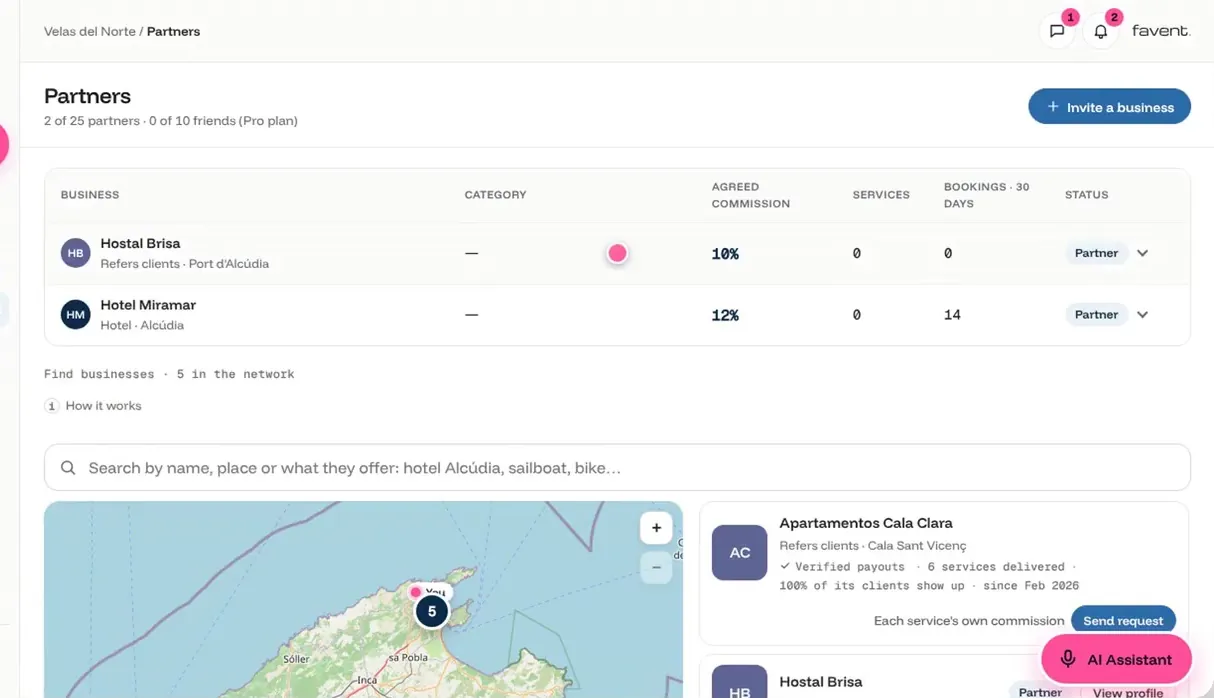
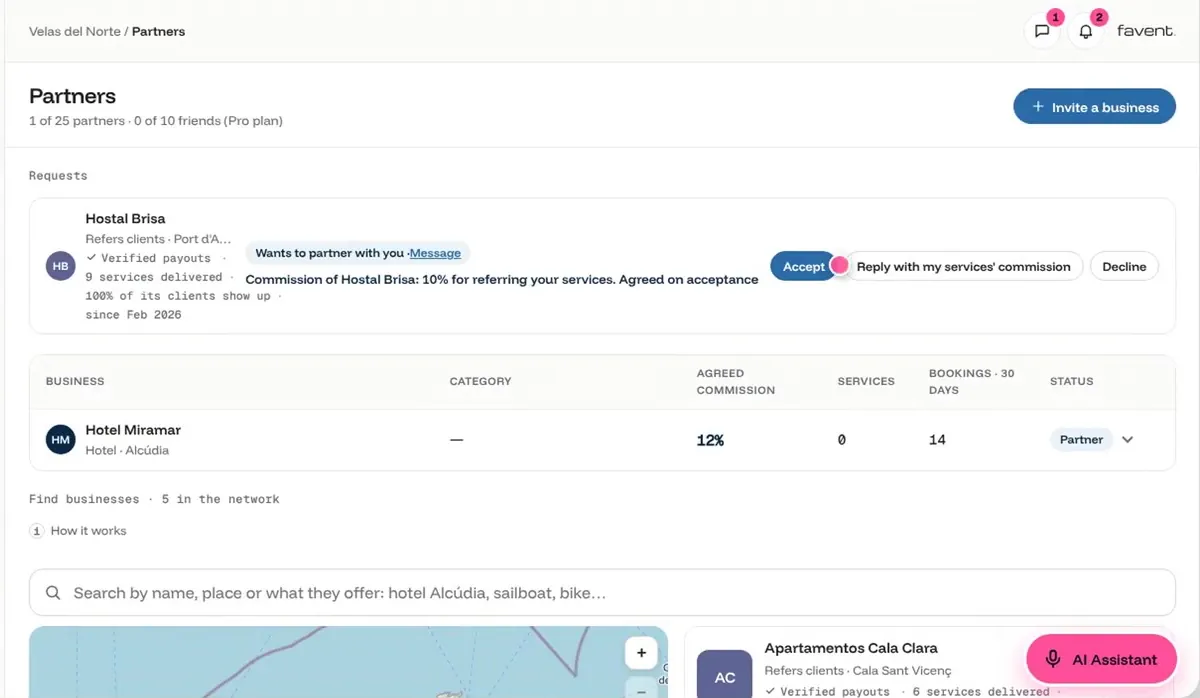
Web: pasos dibujados con título nuevo, ventajas con recortes reales e iPad, iPhone sin notch y bien colocado junto al ordenador

diff --git a/index.html b/index.html
@@ -1393,6 +1393,34 @@ html[lang="en"] .l-es,html:not([lang="en"]) .l-en{display:none !important}
   .stepdev .ip{width:120px}
 }
 @media (prefers-reduced-motion: reduce){.fs,.aps{transition:none}.aps-side{animation:none}}
+
+/* Segunda vuelta (19 nov 2026): recortes de la app, iPad y el iPhone del inicio apoyado junto al ordenador */
+.shot{margin:16px 0 0;border-radius:14px;overflow:hidden;background:#FFFFFF;box-shadow:0 0 0 1px rgba(255,255,255,.14),0 24px 50px rgba(0,0,0,.45)}
+.shot img{display:block;width:100%;height:auto}
+.pad{margin:16px auto 0;width:100%;max-width:470px;position:relative;background:#121722;padding:3.2%;border-radius:5% / 6.6%;box-shadow:0 0 0 1px #2F3747,inset 0 0 0 2px #05070B,0 30px 70px rgba(0,0,0,.5)}
+.pad::before{content:"";position:absolute;top:1.3%;left:50%;width:6px;height:6px;border-radius:50%;background:#05070B;transform:translateX(-50%)}
+.pad-scr{aspect-ratio:4/3;overflow:hidden;border-radius:2.2% / 2.9%;background:#FFFFFF}
+.pad-scr img{display:block;width:100%;height:100%;object-fit:cover;object-position:left top}
+.nw-feat:nth-child(3) .pad{margin:0 auto}
+/* El marco se mide por su propio ancho (el % de padding se medía por el del contenedor y engordaba el bisel) */
+.ip,.pad{container-type:inline-size;padding:0 !important}
+/* iPhone limpio: sin isla ni barra de estado dibujadas, la pantalla real a sangre y un bisel fino */
+.ip{border-radius:14% / 6.6%;background:#0E121A;box-shadow:0 0 0 1px #3A4253,inset 0 0 0 1px rgba(255,255,255,.06),0 30px 70px rgba(0,0,0,.5)}
+.ip::after{display:none}
+.ip-scr{margin:2.6cqw;aspect-ratio:415/900;border-radius:11.6cqw}
+.ip-bar{display:none}
+.ip-view{top:0}
+.ip{background:#1A2030;box-shadow:0 0 0 1px #4A5366,inset 0 0 0 1px rgba(255,255,255,.08),0 30px 60px rgba(0,0,0,.5)}
+.ip-hero{filter:none}
+.nw-feat:nth-child(3){align-content:stretch}
+.nw-feat:nth-child(3) h3{align-self:end}
+.nw-feat:nth-child(3) p.d{align-self:start}
+.pad-scr{margin:3cqw}
+.nw-feat:nth-child(3){grid-template-rows:auto auto;align-content:center}
+.ip-hero{right:1.5%;bottom:0;width:18.5%;filter:drop-shadow(0 24px 40px rgba(0,0,0,.55))}
+.mac-hero{filter:none}
+.mac-hero .mac-scr{box-shadow:inset 0 0 0 1px rgba(255,255,255,.04),0 40px 80px rgba(0,0,0,.45)}
+@media (max-width: 640px){.ip-hero{width:25%;right:1%;bottom:0}}
 </style>
 </head>
 <body>
@@ -1443,7 +1471,7 @@ html[lang="en"] .l-es,html:not([lang="en"]) .l-en{display:none !important}
     <p class="fx-sr">Animación de ejemplo del panel de Favent: un hotel crea una reserva, el cliente paga la señal, se canjea el código QR y se libera la comisión.</p>
     <div class="hero-dev">
       <figure class="mac mac-hero"><div class="mac-scr"><video id="hero-vid" muted loop playsinline preload="metadata" poster="img/app/tour-es.webp?v=1" aria-label="Vídeo de la app de Favent con datos de ejemplo: buscar servicios, la agenda, las reservas, Connect Spot y los mensajes"></video></div><div class="mac-base" aria-hidden="true"></div></figure>
-      <figure class="ip ip-hero"><div class="ip-scr"><div class="ip-bar" aria-hidden="true"><span>9:41</span></div><div class="ip-view"><img class="l-es" src="img/app/es/m2-mapa.webp?v=1" alt="El catálogo del hotel en el móvil del huésped, con el mapa" loading="lazy" decoding="async"><img class="l-en" src="img/app/en/m2-mapa.webp?v=1" alt="The hotel catalogue on the guest phone, with the map" loading="lazy" decoding="async"></div></div></figure>
+      <figure class="ip ip-hero"><div class="ip-scr"><div class="ip-bar" aria-hidden="true"><span>9:41</span></div><div class="ip-view"><img class="l-es" src="img/app/es/m1-catalogo.webp?v=1" alt="El catálogo del hotel en el móvil del huésped" loading="lazy" decoding="async"><img class="l-en" src="img/app/en/m1-catalogo.webp?v=1" alt="The hotel catalogue on the guest phone" loading="lazy" decoding="async"></div></div></figure>
     </div>
     <div id="panel-scale" hidden style="overflow: hidden; border-radius: 32px">
     <div id="demo" inert style="position: relative; background: #EAF2F8; border-radius: 32px; padding: clamp(16px, 4vw, 40px)">
@@ -1502,32 +1530,48 @@ html[lang="en"] .l-es,html:not([lang="en"]) .l-en{display:none !important}
   <section id="funciona" class="nw-in" aria-labelledby="h-funciona">
     <div class="nw-head">
       <span class="nw-eb">Cómo funciona</span>
-      <h2 id="h-funciona">Cuatro pasos, sin perseguir a nadie<span class="dot-p">.</span></h2>
+      <h2 id="h-funciona">Del acuerdo al cobro, en cuatro pasos<span class="dot-p">.</span></h2>
     </div>
     <ol class="nw-steps">
       <li>
         <span class="nw-n">01</span>
         <h3>Pactáis la comisión</h3>
         <p class="d">Las dos empresas acuerdan un porcentaje una vez. Vale para todas las reservas.</p>
-        <div class="stepdev"><figure class="mac"><div class="mac-scr"><img class="l-es" src="img/app/es/rec-colab.webp?v=1" alt="Colaboradores en la app de Favent: la solicitud de un hotel con su comisión" loading="lazy" decoding="async"><img class="l-en" src="img/app/en/rec-colab.webp?v=1" alt="Partners in the Favent app: a hotel request with its commission" loading="lazy" decoding="async"></div><div class="mac-base" aria-hidden="true"></div></figure></div>
+        <div class="mini" aria-hidden="true">
+          <div class="mh"><span>Solicitud de colaboración</span><span class="pl w">Nueva</span></div>
+          <div class="mr"><span>Hotel Miramar</span><small>quien recomienda</small></div>
+          <div class="mr"><span class="big">15 %</span><small>comisión</small></div>
+          <div class="bt"><span class="b">Aceptar</span><span class="b g">Responder</span></div>
+        </div>
       </li>
       <li>
         <span class="nw-n">02</span>
         <h3>El cliente paga la señal</h3>
         <p class="d">Reserva con un enlace o desde el QR del hotel y paga con tarjeta el 50 % o el 100 %.</p>
-        <div class="stepdev"><figure class="ip"><div class="ip-scr"><div class="ip-bar" aria-hidden="true"><span>9:41</span></div><div class="ip-view"><img class="l-es" src="img/app/es/m3-ficha.webp?v=1" alt="Ficha de un servicio en el móvil: lo que se paga ahora y lo que se paga en el lugar" loading="lazy" decoding="async"><img class="l-en" src="img/app/en/m3-ficha.webp?v=1" alt="A service page on the phone: what is paid now and what is paid on site" loading="lazy" decoding="async"></div></div></figure></div>
+        <div class="mini" aria-hidden="true">
+          <div class="mh"><span>Zafiro · Barco privado</span><span>sáb 10:00</span></div>
+          <div class="mr"><span>Pagas ahora</span><b class="mono">308,25 €</b></div>
+          <div class="mr"><span>Pagas en el lugar</span><span class="mono">300,00 €</span></div>
+          <div class="bt"><span class="b a">Pagar la señal</span></div>
+        </div>
       </li>
       <li>
         <span class="nw-n">03</span>
         <h3>Se canjea el QR</h3>
         <p class="d">Al llegar, quien presta el servicio escanea el código del cliente.</p>
-        <div class="stepdev"><figure class="ip"><div class="ip-scr"><div class="ip-bar" aria-hidden="true"><span>9:41</span></div><div class="ip-view"><img class="l-es" src="img/app/es/pro-escanear.webp?v=1" alt="Escanear QR en la app: la reserva del cliente, lista para canjear" loading="lazy" decoding="async"><img class="l-en" src="img/app/en/pro-escanear.webp?v=1" alt="Scan QR in the app: the client booking, ready to redeem" loading="lazy" decoding="async"></div></div></figure></div>
+        <div class="mini" aria-hidden="true">
+          <div class="mr" style="align-items:center"><span class="q" aria-hidden="true"><i></i><i></i><i></i><i></i><i class="o"></i><i></i><i></i><i></i><i></i><i></i><i class="o"></i><i></i><i></i><i></i><i></i><i class="o"></i><i></i><i></i><i></i><i></i><i></i><i class="o"></i><i></i><i></i><i class="o"></i><i class="o"></i><i class="o"></i><i></i><i class="o"></i><i></i><i class="o"></i><i></i><i></i><i></i><i></i><i></i><i></i><i class="o"></i><i></i><i class="o"></i><i class="o"></i><i></i><i></i><i></i><i class="o"></i><i></i><i></i><i></i><i class="o"></i></span><span style="display:grid;gap:6px;justify-items:end"><b class="mono" style="letter-spacing:.08em">FV-7K2Q</b><span class="pl ok">Canjeado</span></span></div>
+        </div>
       </li>
       <li>
         <span class="nw-n">04</span>
         <h3>Cada uno cobra solo</h3>
         <p class="d">Favent envía la comisión a quien recomendó y el resto de la señal a quien presta el servicio.</p>
-        <div class="stepdev"><figure class="mac"><div class="mac-scr"><img class="l-es" src="img/app/es/pro-informes.webp?v=1" alt="Informes: ingresos por canal y reservas por mes" loading="lazy" decoding="async"><img class="l-en" src="img/app/en/pro-informes.webp?v=1" alt="Reports: income by channel and bookings by month" loading="lazy" decoding="async"></div><div class="mac-base" aria-hidden="true"></div></figure></div>
+        <div class="mini" aria-hidden="true">
+          <div class="mh"><span>Reparto de la señal</span><span class="pl ok">Liberado</span></div>
+          <div class="mr"><span>Hotel Miramar</span><b class="mono">90,00 €</b></div>
+          <div class="mr"><span>Velas del Norte</span><b class="mono">210,00 €</b></div>
+        </div>
       </li>
     </ol>
     <span class="nw-ex">Vista de ejemplo</span>
@@ -1554,17 +1598,17 @@ html[lang="en"] .l-es,html:not([lang="en"]) .l-en{display:none !important}
       <article class="nw-feat">
         <h3>Un QR en cada habitación</h3>
         <p class="d">El huésped lo escanea, ve las experiencias que tú eliges y reserva desde su móvil. La reserva queda a tu nombre.</p>
-        <figure class="mac feat-dev"><div class="mac-scr"><img class="l-es" src="img/app/es/rec-qr.webp?v=1" alt="Connect Spot: un código QR por habitación" loading="lazy" decoding="async"><img class="l-en" src="img/app/en/rec-qr.webp?v=1" alt="Connect Spot: one QR code per room" loading="lazy" decoding="async"></div><div class="mac-base" aria-hidden="true"></div></figure>
+        <figure class="shot feat-dev"><img class="l-es" src="img/app/es/d-qr.webp?v=1" alt="Connect Spot en la app: un código QR por habitación" loading="lazy" decoding="async"><img class="l-en" src="img/app/en/d-qr.webp?v=1" alt="Connect Spot in the app: one QR code per room" loading="lazy" decoding="async"></figure>
       </article>
       <article class="nw-feat">
         <h3>Reserva en un minuto</h3>
         <p class="d">Busca en el mapa o escribe lo que pide el cliente. Le mandas el enlace y paga él.</p>
-        <figure class="mac feat-dev"><div class="mac-scr"><img class="l-es" src="img/app/es/rec-buscar.webp?v=1" alt="Buscar servicios: el mapa de Mallorca con cada servicio, su precio y tu comisión" loading="lazy" decoding="async"><img class="l-en" src="img/app/en/rec-buscar.webp?v=1" alt="Find services: the map of Mallorca with each service, its price and your commission" loading="lazy" decoding="async"></div><div class="mac-base" aria-hidden="true"></div></figure>
+        <figure class="shot feat-dev"><img class="l-es" src="img/app/es/d-buscar.webp?v=1" alt="Buscar servicios en la app: el mapa y cada servicio con su precio y tu comisión" loading="lazy" decoding="async"><img class="l-en" src="img/app/en/d-buscar.webp?v=1" alt="Find services in the app: the map and each service with its price and your commission" loading="lazy" decoding="async"></figure>
       </article>
       <article class="nw-feat">
         <h3>Tus comisiones, claras</h3>
         <p class="d">Lo generado, lo retenido y lo cobrado, por mes y por empresa, siempre al día.</p>
-        <figure class="mac feat-dev"><div class="mac-scr"><img class="l-es" src="img/app/es/rec-informes.webp?v=1" alt="Informes: comisión por categoría y reservas por mes" loading="lazy" decoding="async"><img class="l-en" src="img/app/en/rec-informes.webp?v=1" alt="Reports: commission by category and bookings by month" loading="lazy" decoding="async"></div><div class="mac-base" aria-hidden="true"></div></figure>
+        <figure class="pad feat-dev"><div class="pad-scr"><img class="l-es" src="img/app/es/rec-informes.webp?v=1" alt="Informes en un iPad: comisión por categoría y reservas por mes" loading="lazy" decoding="async"><img class="l-en" src="img/app/en/rec-informes.webp?v=1" alt="Reports on an iPad: commission by category and bookings by month" loading="lazy" decoding="async"></div></figure>
       </article>
     </div>
   </section>
@@ -1581,17 +1625,17 @@ html[lang="en"] .l-es,html:not([lang="en"]) .l-en{display:none !important}
       <article class="nw-feat">
         <h3>Reservas que llegan pagadas</h3>
         <p class="d">Aceptas o rechazas en un toque. La señal se cobra al aceptar y, si el cliente no se presenta, se queda.</p>
-        <figure class="mac feat-dev"><div class="mac-scr"><img class="l-es" src="img/app/es/pro-reservas.webp?v=1" alt="Reservas por aceptar, con el tiempo que queda para responder" loading="lazy" decoding="async"><img class="l-en" src="img/app/en/pro-reservas.webp?v=1" alt="Bookings to accept, with the time left to reply" loading="lazy" decoding="async"></div><div class="mac-base" aria-hidden="true"></div></figure>
+        <figure class="shot feat-dev"><img class="l-es" src="img/app/es/d-reservas.webp?v=1" alt="Reservas por aceptar, con el tiempo que queda para responder" loading="lazy" decoding="async"><img class="l-en" src="img/app/en/d-reservas.webp?v=1" alt="Bookings to accept, with the time left to reply" loading="lazy" decoding="async"></figure>
       </article>
       <article class="nw-feat">
         <h3>Una agenda profesional</h3>
         <p class="d">Tus barcos o servicios en columnas, por día, semana o mes. Tus reservas de teléfono y web junto a las de Favent, y con Google Calendar.</p>
-        <figure class="mac feat-dev"><div class="mac-scr"><img class="l-es" src="img/app/es/pro-agenda.webp?v=1" alt="Agenda: un barco por columna y las reservas del día" loading="lazy" decoding="async"><img class="l-en" src="img/app/en/pro-agenda.webp?v=1" alt="Calendar: one boat per column and the day bookings" loading="lazy" decoding="async"></div><div class="mac-base" aria-hidden="true"></div></figure>
+        <figure class="shot feat-dev"><img class="l-es" src="img/app/es/d-agenda.webp?v=1" alt="La agenda: un barco por columna y las reservas del día" loading="lazy" decoding="async"><img class="l-en" src="img/app/en/d-agenda.webp?v=1" alt="The calendar: one boat per column and the day bookings" loading="lazy" decoding="async"></figure>
       </article>
       <article class="nw-feat">
         <h3>Entre colegas</h3>
         <p class="d">¿Ese día estás lleno? Pasa la reserva a una empresa con la que colaboras y cobra tu comisión.</p>
-        <figure class="mac feat-dev"><div class="mac-scr"><img class="l-es" src="img/app/es/pro-colab.webp?v=1" alt="Colaboradores: hoteles y empresas con su comisión pactada" loading="lazy" decoding="async"><img class="l-en" src="img/app/en/pro-colab.webp?v=1" alt="Partners: hotels and businesses with their agreed commission" loading="lazy" decoding="async"></div><div class="mac-base" aria-hidden="true"></div></figure>
+        <figure class="pad feat-dev"><div class="pad-scr"><img class="l-es" src="img/app/es/pro-colab.webp?v=1" alt="Colaboradores en un iPad: hoteles y empresas con su comisión pactada" loading="lazy" decoding="async"><img class="l-en" src="img/app/en/pro-colab.webp?v=1" alt="Partners on an iPad: hotels and businesses with their agreed commission" loading="lazy" decoding="async"></div></figure>
       </article>
     </div>
     <span class="nw-ex">Vista de ejemplo</span>
@@ -2061,6 +2105,7 @@ html[lang="en"] .l-es,html:not([lang="en"]) .l-en{display:none !important}
 
   // Traducciones al inglés. La clave es el texto en español tal cual aparece en la página.
   var EN = {
+    "Del acuerdo al cobro, en cuatro pasos": "From agreement to payout, in four steps",
     "Déjanos el email de tu empresa. Favent revisa cada solicitud y te escribe en cuanto tengas acceso.": "Leave us your business email. Favent reviews every request and writes to you as soon as you have access.",
     "Solicita acceso al piloto.": "Request access to the pilot.",
     "Vídeo de la app de Favent con datos de ejemplo: buscar servicios, la agenda, las reservas, Connect Spot y los mensajes": "Video of the Favent app with sample data: finding services, the calendar, bookings, Connect Spot and messages",
@@ -4850,7 +4895,7 @@ html[lang="en"] .l-es,html:not([lang="en"]) .l-en{display:none !important}
     }
     function tap(p) {
       if (!p) return;
-      F.tap.style.left = p[0] + '%'; F.tap.style.top = (6.25 + p[1] * 0.9375) + '%';
+      F.tap.style.left = p[0] + '%'; F.tap.style.top = p[1] + '%';
       F.tap.classList.remove('go'); void F.tap.offsetWidth; F.tap.classList.add('go');
     }
     function step() {

diff --git a/DESIGN.md b/DESIGN.md
@@ -231,6 +231,7 @@ Favent es el canal de ventas profesional B2B entre empresas de servicios: quien 
 - **Plan Pro**: borde y luz rosas. Retícula tenue detrás del titular del inicio (`.intro::before`). Foco de teclado en `#7CC4FF`.
 - Los estilos están al final del `<style>` de `index.html`, bajo el comentario «Identidad E».
 - **Pantallas reales de la app** (19 nov 2026, a petición de Rodrigo): todas las imágenes de producto son capturas de la app real (de los vídeos del tour, `AppTour*ESP/EN.mp4`, con datos de ejemplo) y **siempre van dentro de un ordenador (`.mac`: pantalla con bisel y base) o de un iPhone (`.ip`: bisel, isla y barra de estado)**. Cada imagen existe en `img/app/es/` e `img/app/en/` y se muestra la del idioma (`.l-es` / `.l-en`). El inicio es un vídeo en bucle del tour (`img/app/tour-es.mp4` / `tour-en.mp4`) en un ordenador, con un iPhone al lado: al aparecer, el ordenador sube y se endereza y el iPhone entra desde la derecha (`.hero-dev.in`). En «Para el cliente», un iPhone repite la reserva real: elige en el mapa, ficha, datos, página de pago de Stripe con Apple Pay (esta pantalla y la hoja de Apple Pay están dibujadas, no salen del tour) y reserva confirmada. Todo queda quieto con `prefers-reduced-motion` o el botón de pausa. El panel dibujado antiguo (`#panel-scale`) sigue en el código, oculto, porque el script lo busca.
+- **Ajustes del 19 nov 2026 (Rodrigo):** los cuatro pasos vuelven a las pantallas dibujadas (`.mini`), que explican el proceso con más claridad, con el título «Del acuerdo al cobro, en cuatro pasos». Las ventajas de cada perfil no van todas en ordenador: recortes de detalle de la app a tamaño legible (`.shot`, archivos `d-*.webp`) y un iPad (`.pad`) en la tarjeta ancha. El iPhone (`.ip`) es limpio: bisel fino y la pantalla real a sangre, **sin isla ni barra de estado dibujadas**. Los marcos se miden por su propio ancho (`container-type` y `cqw`), no por el del contenedor.
 
 **Identidad D · «Favent depurado»** (16 nov 2026). Se compararon cuatro direcciones (Grafito, Carta náutica, Instrumento y esta) y Rodrigo eligió la D: la identidad de antes, más adulta. Se queda lo reconocible (la palabra «favent.» en Michroma con el punto rosa, Funnel Display, Geist Mono) y se quita lo que la hacía ruidosa: la rejilla de puntos que respiraba, el grano, el vidrio esmerilado, los relieves neumórficos, el azul eléctrico y la alternancia de bloques oscuros y claros.
 
